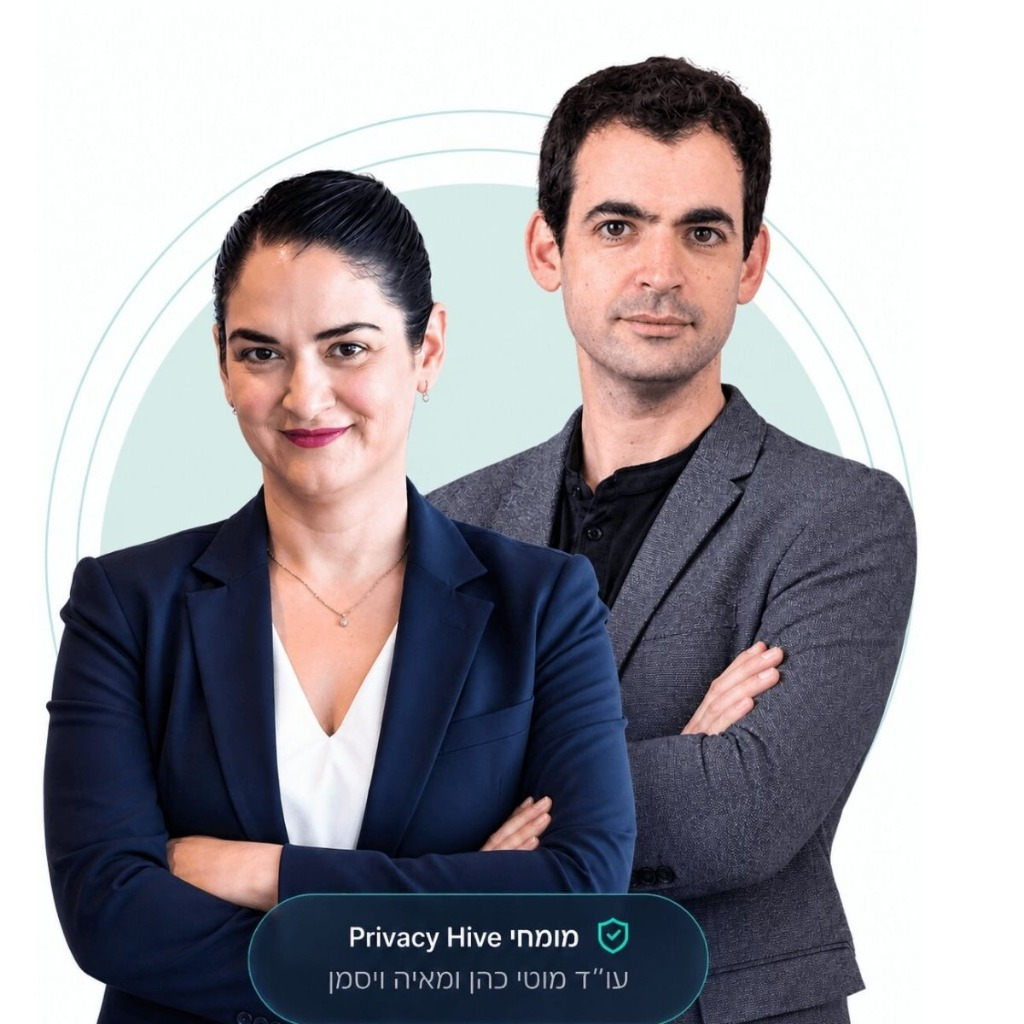
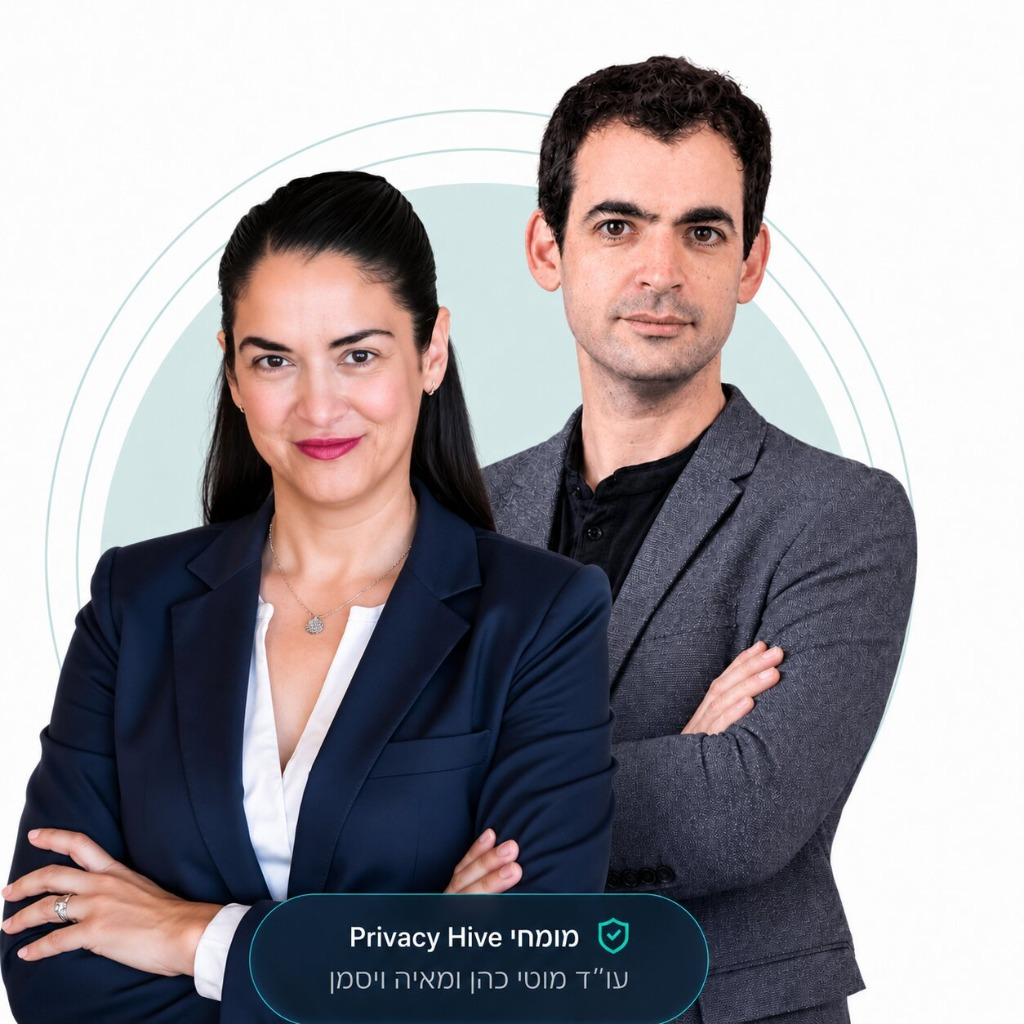
Update founders photo, revamp thank-you page, and add selective Meta Pixel tracking for 4+ employees

diff --git a/thank-you.html b/thank-you.html
@@ -13,43 +13,69 @@ j=d.createElement(s),dl=l!='dataLayer'?'&l='+l:'';j.async=true;j.src=
     <meta name="viewport" content="width=device-width, initial-scale=1.0">
     <title>תודה רבה | Privacy Hive</title>
     <meta name="description" content="פנייתך התקבלה בהצלחה. צוות Privacy Hive יחזור אליך בהקדם.">
+
+    <!-- Meta Pixel Code -->
+    <script>
+    !function(f,b,e,v,n,t,s)
+    {if(f.fbq)return;n=f.fbq=function(){n.callMethod?
+    n.callMethod.apply(n,arguments):n.queue.push(arguments)};
+    if(!f._fbq)f._fbq=n;n.push=n;n.loaded=!0;n.version='2.0';
+    n.queue=[];t=b.createElement(e);t.async=!0;
+    t.src=v;s=b.getElementsByTagName(e)[0];
+    s.parentNode.insertBefore(t,s)}(window, document,'script',
+    'https://connect.facebook.net/en_US/fbevents.js');
+    fbq('init', '1384761183187623');
+    fbq('track', 'PageView');
+    </script>
+    <noscript><img height="1" width="1" style="display:none"
+    src="https://www.facebook.com/tr?id=1384761183187623&ev=PageView&noscript=1"
+    /></noscript>
+    <!-- End Meta Pixel Code -->
     
     <!-- Google Fonts -->
     <link rel="preconnect" href="https://fonts.googleapis.com">
     <link rel="preconnect" href="https://fonts.gstatic.com" crossorigin>
-    <link href="https://fonts.googleapis.com/css2?family=Noto+Sans+Hebrew:wght@400;500;600;700;800&display=swap" rel="stylesheet">
+    <link href="https://fonts.googleapis.com/css2?family=Noto+Sans+Hebrew:wght@400;500;600;700;800;900&display=swap" rel="stylesheet">
     
     <!-- Font Awesome -->
-    <link rel="stylesheet" href="https://cdnjs.cloudflare.com/ajax/libs/font-awesome/6.5.1/css/all.min.css" integrity="sha512-DTOQO9RWCH3ppGqcWaEA1BIZOC6xxalwEsw9c2QQeAIftl+Vegovlnee1c9QX4TctnWMn13TZye+giMm8e2LwA==" crossorigin="anonymous" referrerpolicy="no-referrer" />
+    <link rel="stylesheet" href="https://cdnjs.cloudflare.com/ajax/libs/font-awesome/6.5.1/css/all.min.css">
     
     <!-- CSS -->
     <link rel="stylesheet" href="assets/css/variables.css">
-    <link rel="stylesheet" href="assets/css/global.css?v=1.1">
-    <link rel="stylesheet" href="assets/css/components.css?v=1.1">
-    
+    <link rel="stylesheet" href="assets/css/global.css?v=1.2">
+
     <style>
-        .thank-you-section {
-            min-height: calc(100vh - 200px);
+        body {
+            background-color: var(--color-primary-dark);
+            min-height: 100vh;
             display: flex;
             align-items: center;
             justify-content: center;
-            padding: 5rem 1rem;
-            background: linear-gradient(135deg, var(--color-bg) 0%, #F1F5F9 100%);
+            padding: 2rem 1rem;
+            margin: 0;
+            font-family: var(--font-base);
         }
-        .thank-you-box {
-            background: white;
-            padding: 4rem 3rem;
+        .thank-you-card {
+            background: #FFFFFF;
             border-radius: var(--radius-lg);
-            box-shadow: var(--shadow-floating);
+            padding: 3.5rem 2.5rem;
+            box-shadow: 0 25px 50px -12px rgba(0,0,0,0.5);
             text-align: center;
-            max-width: 600px;
+            max-width: 580px;
             width: 100%;
-            border-top: 5px solid var(--color-accent);
+            position: relative;
+        }
+        .thank-you-logo {
+            margin-bottom: 2rem;
+        }
+        .thank-you-logo img {
+            height: 48px;
+            width: auto;
         }
         .success-icon {
-            font-size: 5rem;
+            font-size: 4.5rem;
             color: var(--color-accent);
-            margin-bottom: 2rem;
+            margin-bottom: 1.2rem;
             animation: scaleIn 0.5s ease-out;
         }
         @keyframes scaleIn {
@@ -58,37 +84,39 @@ j=d.createElement(s),dl=l!='dataLayer'?'&l='+l:'';j.async=true;j.src=
             100% { transform: scale(1); opacity: 1; }
         }
         .thank-you-title {
-            font-size: 2.5rem;
+            font-size: 2.2rem;
             font-weight: 900;
             color: var(--color-primary);
-            margin-bottom: 1rem;
-            letter-spacing: -0.5px;
+            margin-bottom: 0.8rem;
+            line-height: 1.2;
         }
         .thank-you-text {
-            font-size: 1.2rem;
-            color: var(--color-muted);
-            margin-bottom: 3rem;
+            font-size: 1.15rem;
+            color: #475569;
+            margin-bottom: 2rem;
             line-height: 1.6;
         }
-        .home-btn {
-            display: inline-flex;
-            align-items: center;
-            gap: 0.8rem;
-            font-size: 1.1rem;
-            font-weight: bold;
-            padding: 1rem 2rem;
-            background-color: var(--color-primary);
-            color: white;
-            border-radius: 50px;
-            text-decoration: none;
-            transition: all 0.3s ease;
-            box-shadow: 0 4px 15px rgba(15, 23, 42, 0.2);
+        .founders-wrapper {
+            margin-top: 1.5rem;
+            border-radius: 14px;
+            overflow: hidden;
+            box-shadow: 0 8px 25px rgba(0,0,0,0.12);
         }
-        .home-btn:hover {
-            transform: translateY(-3px);
-            box-shadow: 0 8px 25px rgba(15, 23, 42, 0.3);
-            background-color: var(--color-primary-dark);
-            color: white;
+        .founders-wrapper img {
+            width: 100%;
+            height: auto;
+            display: block;
+        }
+        @media (max-width: 768px) {
+            .thank-you-card {
+                padding: 2.5rem 1.25rem;
+            }
+            .thank-you-title {
+                font-size: 1.8rem;
+            }
+            .thank-you-text {
+                font-size: 1rem;
+            }
         }
     </style>
 
@@ -109,110 +137,26 @@ j=d.createElement(s),dl=l!='dataLayer'?'&l='+l:'';j.async=true;j.src=
 height="0" width="0" style="display:none;visibility:hidden"></iframe></noscript>
 <!-- End Google Tag Manager (noscript) -->
 
-    <!-- Header -->
-    <header class="site-header">
-        <div class="container header-inner">
-            <div class="logo">
-                <a href="index.html"><img src="assets/LOGO_FINAL.svg" alt="Privacy Hive Logo"></a>
-            </div>
-            <nav>
-                <ul class="nav-links">
-                    <li><a href="tikun-13/index.html">תיקון 13</a></li>
-                    <li><a href="information-security-for-businesses/index.html">אבטחת מידע לעסקים</a></li>
-                    <li><a href="information-security-for-organizations/index.html">אבטחת מידע לארגונים</a></li>
-                    <li><a href="dpo/index.html">שירותי DPO</a></li>
-                </ul>
-            </nav>
-            <a href="index.html#contact" class="btn btn-primary nav-btn">שיחת התאמה (ללא עלות)</a>
+    <div class="thank-you-card">
+        <div class="thank-you-logo">
+            <img src="assets/LOGO_FINAL.svg" alt="Privacy Hive Logo">
         </div>
-    </header>
-
-    <!-- Thank You Content -->
-    <section class="thank-you-section">
-        <div class="thank-you-box">
-            <div class="success-icon">
-                <i class="fa-solid fa-circle-check"></i>
-            </div>
-            <h1 class="thank-you-title">תודה רבה! פנייתך התקבלה</h1>
-            <p class="thank-you-text">
-                הפרטים שלך הועברו אלינו בצורה מאובטחת. <br>
-                אחד המומחים שלנו ייצור איתך קשר בהקדם כדי לענות על כל השאלות שלך.
-            </p>
-            <a href="index.html" class="home-btn">
-                <i class="fa-solid fa-house"></i> חזרה לעמוד הבית
-            </a>
+        
+        <div class="success-icon">
+            <i class="fa-solid fa-circle-check"></i>
         </div>
-    </section>
-
-    <!-- Footer -->
-    <!-- Scripts -->
-    
-    <!-- Global Footer -->
-    <footer class="site-footer" style="background-color: var(--color-primary-dark); color: #F8FAFC; padding: 5rem 0 2rem; font-size: 1.05rem;">
-        <div class="container">
-            <div class="footer-inner">
-                
-                <!-- Column 1: About -->
-                <div class="footer-col">
-                    <a href="home-page.html">
-                        <img src="assets/LOGO_FINAL.svg" alt="Privacy Hive" style="height: 48px; margin-bottom: 1.5rem; filter: brightness(0) invert(1);">
-                    </a>
-                    <p style="color: #CBD5E1; line-height: 1.7; max-width: 400px;">מעניקים כיפת ברזל חוקית לארגונים בעולם של דאטה ואבטחת מידע.</p>
-                </div>
-                
-                <!-- Column 2: Privacy -->
-                <div class="footer-col">
-                    <h4 style="color: white; font-size: 1.2rem; margin-bottom: 1.5rem; position: relative; padding-bottom: 0.5rem;">פרטיות ותקינה
-                        <span style="content: ''; position: absolute; bottom: 0; right: 0; width: 40px; height: 2px; background-color: var(--color-accent);"></span>
-                    </h4>
-                    <ul class="footer-links" style="list-style: none; padding: 0; margin: 0; display: flex; flex-direction: column; gap: 0.8rem;">
-                        <li><a href="home-page.html" style="color: #CBD5E1; text-decoration: none; transition: all 0.3s;">עמוד הבית</a></li>
-                        <li><a href="tikun-13/index.html" style="color: #CBD5E1; text-decoration: none; transition: all 0.3s;">היערכות לתיקון 13</a></li>
-                        <li><a href="tikun-13-check/index.html" style="color: #CBD5E1; text-decoration: none; transition: all 0.3s;">בדיקת חשיפה לתיקון 13</a></li>
-                        <li><a href="tikun-13-quiz/index.html" style="color: #CBD5E1; text-decoration: none; transition: all 0.3s;">שאלון מוכנות לתיקון 13</a></li>
-                        <li><a href="dpo/index.html" style="color: #CBD5E1; text-decoration: none; transition: all 0.3s;">שירותי DPO</a></li>
-                        <li><a href="privacy-officer/index.html" style="color: #CBD5E1; text-decoration: none; transition: all 0.3s;">קצין ציות והגנת פרטיות</a></li>
-                        <li><a href="iso-27001/index.html" style="color: #CBD5E1; text-decoration: none; transition: all 0.3s;">התאמה לתקן ISO 27001</a></li>
-                    </ul>
-                </div>
-                
-                <!-- Column 3: Info Sec -->
-                <div class="footer-col">
-                    <h4 style="color: white; font-size: 1.2rem; margin-bottom: 1.5rem; position: relative; padding-bottom: 0.5rem;">אבטחת מידע
-                        <span style="content: ''; position: absolute; bottom: 0; right: 0; width: 40px; height: 2px; background-color: var(--color-accent);"></span>
-                    </h4>
-                    <ul class="footer-links" style="list-style: none; padding: 0; margin: 0; display: flex; flex-direction: column; gap: 0.8rem;">
-                        <li><a href="information-security-for-organizations/index.html" style="color: #CBD5E1; text-decoration: none; transition: all 0.3s;">אבטחת מידע לארגונים</a></li>
-                        <li><a href="information-security-for-businesses/index.html" style="color: #CBD5E1; text-decoration: none; transition: all 0.3s;">אבטחת מידע לעסקים</a></li>
-                        <li><a href="information-security-risk-assessment/index.html" style="color: #CBD5E1; text-decoration: none; transition: all 0.3s;">סקר סיכוני אבטחת מידע</a></li>
-                    </ul>
-                </div>
-                
-                <!-- Column 4: Legal & Contact -->
-                <div class="footer-col">
-                    <h4 style="color: white; font-size: 1.2rem; margin-bottom: 1.5rem; position: relative; padding-bottom: 0.5rem;">יצירת קשר ומשפטי
-                        <span style="content: ''; position: absolute; bottom: 0; right: 0; width: 40px; height: 2px; background-color: var(--color-accent);"></span>
-                    </h4>
-                    <ul class="footer-links" style="list-style: none; padding: 0; margin: 0; display: flex; flex-direction: column; gap: 0.8rem;">
-                        <li><a href="https://wa.me/972545445429" style="color: #CBD5E1; text-decoration: none; transition: all 0.3s;"><i class="fa-brands fa-whatsapp"></i> וואטסאפ (מוטי)</a></li>
-                        <li><span style="color: #CBD5E1;"><i class="fa-solid fa-phone"></i> טלפון: 054-5445429</span></li>
-                        <li><a href="privacy-policy.html" style="color: #CBD5E1; text-decoration: none; transition: all 0.3s;">מדיניות פרטיות</a></li>
-                        <li><a href="accessibility.html" style="color: #CBD5E1; text-decoration: none; transition: all 0.3s;">הצהרת נגישות</a></li>
-                    </ul>
-                </div>
-                
-            </div>
-            
-            <div class="footer-bottom" style="display: flex; justify-content: space-between; align-items: center; padding-top: 2rem; border-top: 1px solid rgba(255,255,255,0.1); color: #94A3B8; font-size: 0.95rem;">
-                <p style="margin: 0;">&copy; 2026 Privacy Hive. כל הזכויות שמורות.</p>
-                <div style="display: flex; gap: 1rem;">
-                    <a href="#" style="color: #94A3B8; font-size: 1.2rem; transition: color 0.3s;"><i class="fa-brands fa-linkedin"></i></a>
-                    <a href="#" style="color: #94A3B8; font-size: 1.2rem; transition: color 0.3s;"><i class="fa-brands fa-facebook"></i></a>
-                </div>
-            </div>
+        
+        <h1 class="thank-you-title">תודה רבה! פנייתך התקבלה</h1>
+        
+        <p class="thank-you-text">
+            הפרטים שלך הועברו אלינו בצורה מאובטחת.<br>
+            אחד המומחים שלנו ייצור איתך קשר בהקדם.
+        </p>
+        
+        <div class="founders-wrapper">
+            <img src="assets/quiz-welcome.jpg" alt="מומחי Privacy Hive - עו״ד מוטי כהן ומאיה ויסמן">
         </div>
-    </footer>
+    </div>
 
-    <script src="assets/js/main.js?v=1.1"></script>
 </body>
 </html>

diff --git a/tikun-13-quiz/quiz.js b/tikun-13-quiz/quiz.js
@@ -293,6 +293,41 @@
                 gapsContainer.appendChild(card);
             });
         }
+
+        // Fire tracking events on reaching Results Screen
+        const empVal = state.answers.q1;
+        const is4PlusEmployees = ['4-10', '11-100', '100+'].includes(empVal);
+        
+        if (!state.resultsTracked) {
+            state.resultsTracked = true;
+            
+            window.dataLayer = window.dataLayer || [];
+            window.dataLayer.push({
+                'event': 'quiz_completed',
+                'employee_range': empVal || 'unknown',
+                'security_level': secLevel,
+                'issues_count': issues.length,
+                'potential_fine': totalAdminFine
+            });
+
+            // Targeted event for businesses with 4+ employees
+            if (is4PlusEmployees) {
+                window.dataLayer.push({
+                    'event': 'quiz_completed_4plus_employees',
+                    'employee_range': empVal,
+                    'security_level': secLevel,
+                    'is_qualified_4plus': true
+                });
+
+                if (typeof fbq === 'function') {
+                    fbq('trackCustom', 'QuizResults_4PlusEmployees', {
+                        employee_range: empVal,
+                        security_level: secLevel,
+                        potential_fine: totalAdminFine
+                    });
+                }
+            }
+        }
     }
 
     // UTM Helper
@@ -385,6 +420,15 @@
                         'send_to': 'AW-18176010346/9mFVCL38_7IcEOrQ_9pD',
                         'value': 1.0,
                         'currency': 'ILS'
+                    });
+                }
+
+                // Fire Facebook Pixel Lead Event ONLY for businesses with 4+ employees
+                const is4PlusLead = ['4-10', '11-100', '100+'].includes(state.answers.q1);
+                if (is4PlusLead && typeof fbq === 'function') {
+                    fbq('track', 'Lead', {
+                        content_name: 'Tikun 13 Quiz Qualified Lead (4+)',
+                        employee_range: state.answers.q1
                     });
                 }
 

diff --git a/tikun-13-quiz/index.html b/tikun-13-quiz/index.html
@@ -7,6 +7,24 @@
     <title>שאלון חשיפה לקנסות ותביעות לפי חוק הגנת הפרטיות | Privacy Hive</title>
     <meta name="description" content="שאלון אינטראקטיבי לבדיקת החשיפה של העסק לקנסות ותביעות לפי תיקון 13 לחוק הגנת הפרטיות וחוק הספאם.">
 
+    <!-- Meta Pixel Code -->
+    <script>
+    !function(f,b,e,v,n,t,s)
+    {if(f.fbq)return;n=f.fbq=function(){n.callMethod?
+    n.callMethod.apply(n,arguments):n.queue.push(arguments)};
+    if(!f._fbq)f._fbq=n;n.push=n;n.loaded=!0;n.version='2.0';
+    n.queue=[];t=b.createElement(e);t.async=!0;
+    t.src=v;s=b.getElementsByTagName(e)[0];
+    s.parentNode.insertBefore(t,s)}(window, document,'script',
+    'https://connect.facebook.net/en_US/fbevents.js');
+    fbq('init', '1384761183187623');
+    fbq('track', 'PageView');
+    </script>
+    <noscript><img height="1" width="1" style="display:none"
+    src="https://www.facebook.com/tr?id=1384761183187623&ev=PageView&noscript=1"
+    /></noscript>
+    <!-- End Meta Pixel Code -->
+
     <link rel="preconnect" href="https://fonts.googleapis.com">
     <link rel="preconnect" href="https://fonts.gstatic.com" crossorigin>
     <link href="https://fonts.googleapis.com/css2?family=Noto+Sans+Hebrew:wght@400;500;600;700;800;900&display=swap" rel="stylesheet">
